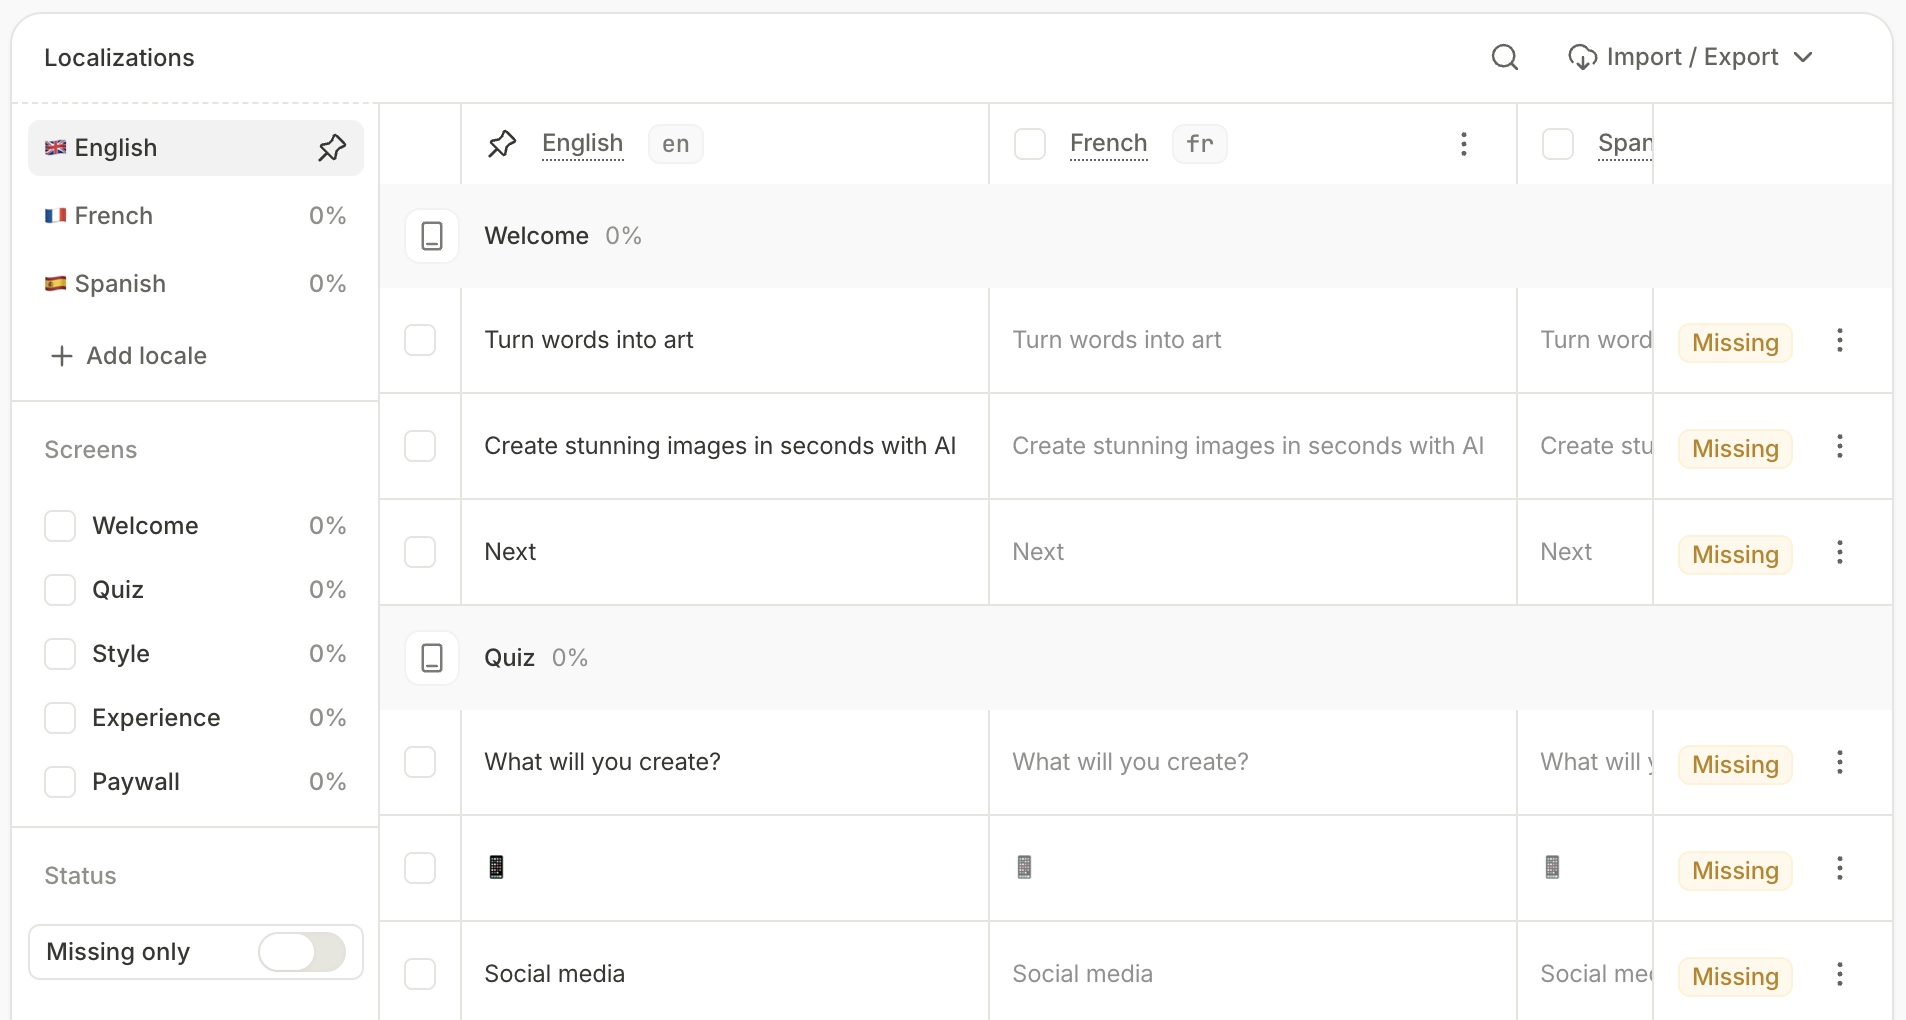
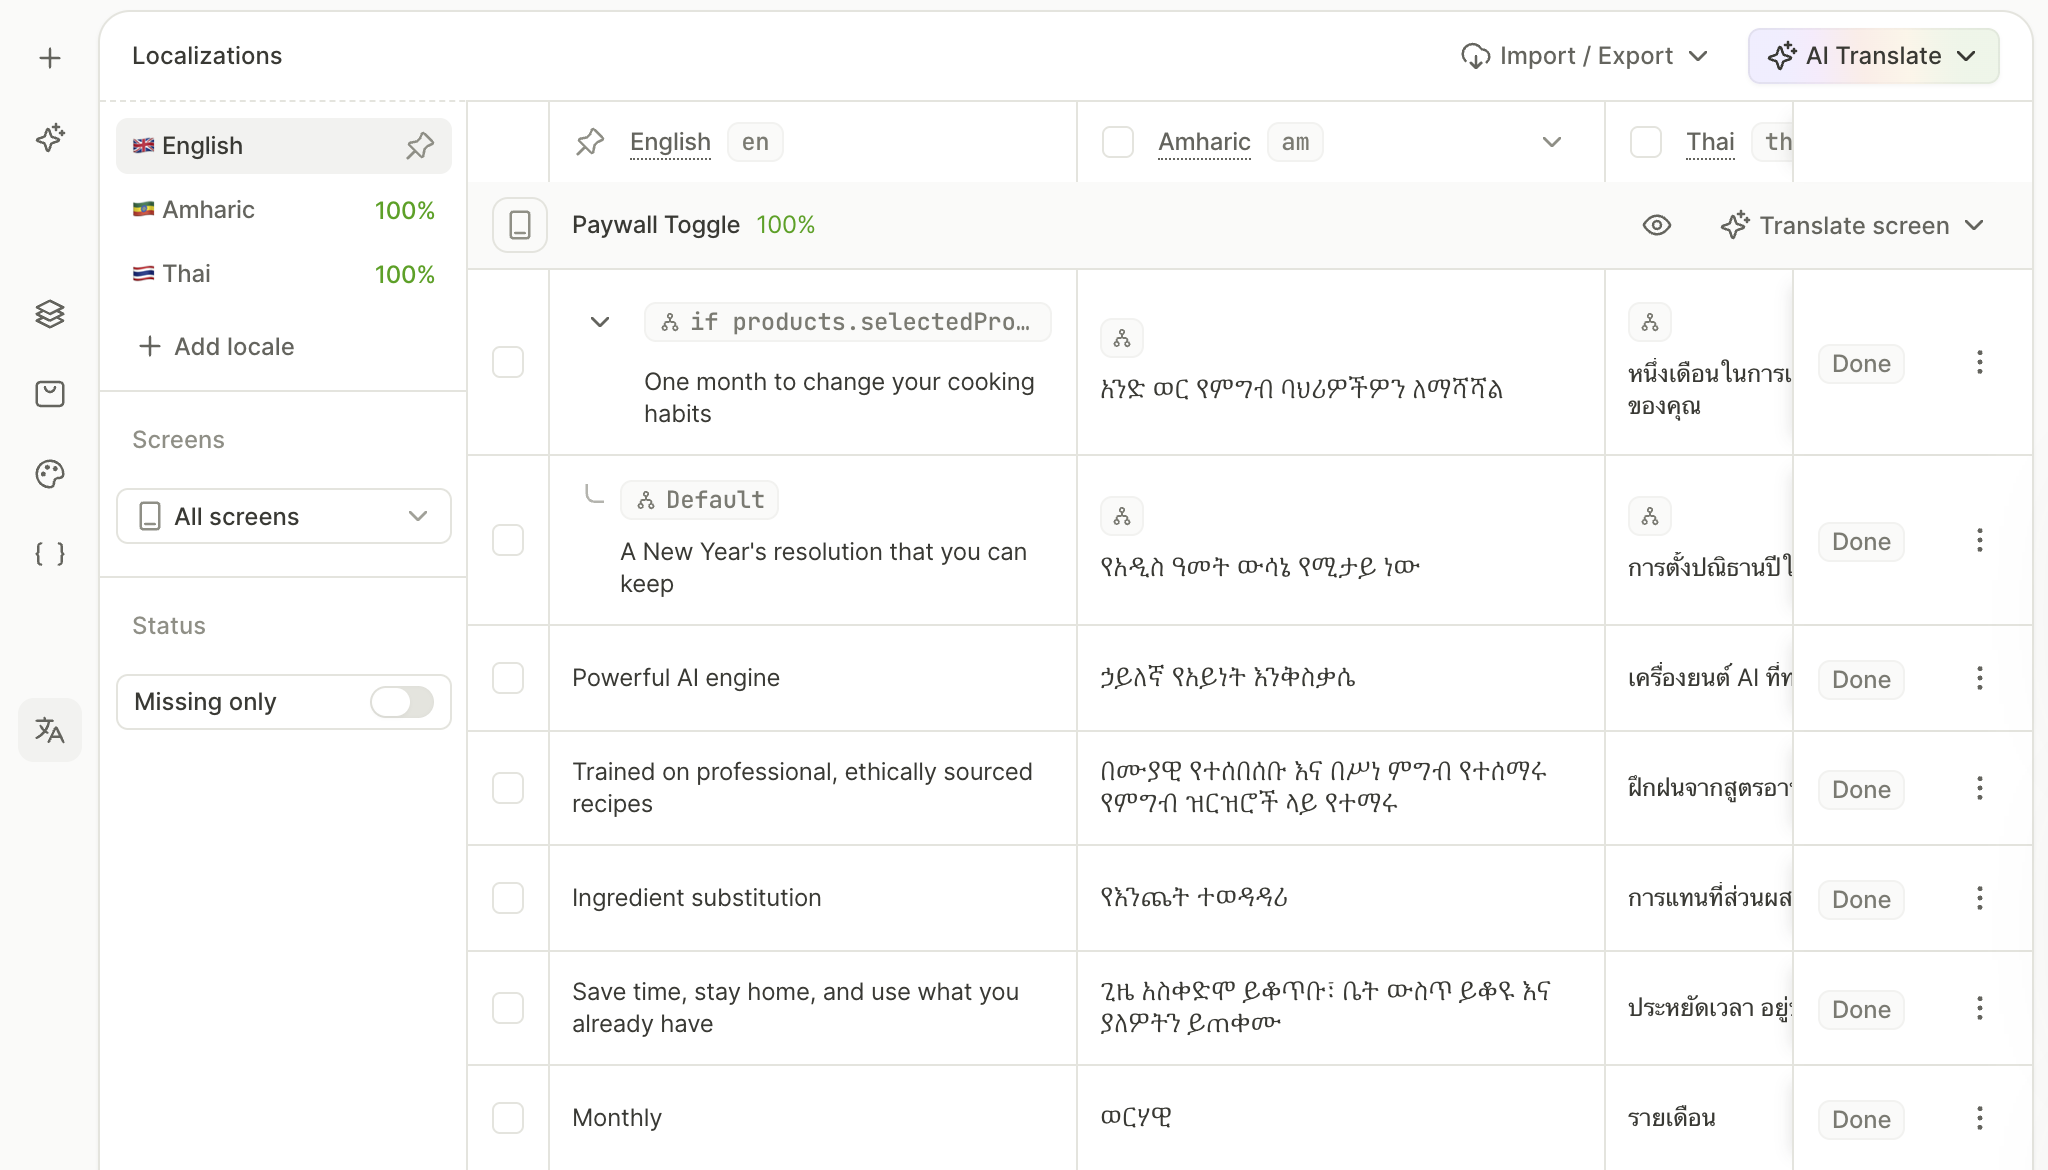
Localization 2.0

diff --git a/.claude/context-mill/zones/flow-design.md b/.claude/context-mill/zones/flow-design.md
@@ -221,7 +221,7 @@ articles in this zone are plausible and one is right.
 | "selected style only applied to one option", "grey out the submit button", "error style appears too late", "empty field counts as valid" | `builder-element-states` for the look, `builder-inputs-and-forms` for the rules. Four constraints do the work: state styling does **not** propagate to siblings (style one element, then duplicate it); **Disabled** never activates on its own — it needs a condition, typically `<elementId>.isValid = false`; **Invalid** activates only when the user submits, so nothing turns red while typing; and an empty input is always valid (Text inputs have no rules at all, so their `isValid` is always true). |
 | "swipeable slides", "let users switch monthly/yearly", "branch on which slide they picked" | A Carousel's active slide is **not** a selectable group — slides can't be referenced in conditions or dynamic text, so it's for visual rotation only (`builder-containers#carousel`). `builder-tabs` is the single-choice-group version, exposing `selectedOptionId` / `selectedOptionTitle`. Switching whole product groups is `flow-logic`'s `paywall-with-tabs` recipe. |
 | "countdown restarts every time the screen opens", "timer should survive an app restart" | `flow-timer` — the **Behavior** dropdown: **Every appear** (default), **First appear** (first view in the current app session), **First appear (persisted)** (keeps counting across launches). Hiding a badge or navigating when it reaches zero is an **On timer end** action (`flow-logic`'s `onboarding-actions`). |
-| "translate the flow", "send strings to a translator", "TSV import failed", "some screens fell back to English" | Two unrelated surfaces; `paywall-localization` exists only to route between them. On-screen text and media: `add-paywall-locale-in-adapty-paywall-builder` — despite the filename it is the flow-era Localizations panel (see the Boundaries TODO on its zoning). Export/import is `.tsv`, **the export strips variables** so they must be re-added by hand, import locale codes must already exist in the flow, and the pinned default locale is the fallback for anything missing. Per-locale remote-config JSON is `add-flow-remote-config-locale`. Icons, screen backgrounds and custom media IDs **can't** be localized at all (`custom-media#limitations`). |
+| "translate the flow", "send strings to a translator", "TSV import failed", "some screens fell back to English" | Two unrelated surfaces; `paywall-localization` exists only to route between them. On-screen text and media: `add-paywall-locale-in-adapty-paywall-builder` — despite the filename it is the flow-era Localizations panel (see the Boundaries TODO on its zoning). Export/import is `.tsv`; the pinned default locale is the fallback for anything missing. Corrected 2026-10-01 against the localization-catalog dev branch (`origin/ADP-7896-localization-catalog`, `packages/unified-builder/builder/docs/localization.docs.md:310-325`), pending release: variables export as `{{name}}` and survive the import, locale columns the flow lacks are skipped rather than rejected, and a blank cell clears a non-default translation. Earlier this row said the export strips variables and that import locale codes must already exist. Per-locale remote-config JSON is `add-flow-remote-config-locale`. Icons, screen backgrounds and custom media IDs **can't** be localized at all (`custom-media#limitations`). |
 | "can't upload the image/video", "upload fails", "file rejected", "my logo is an SVG", "the GIF doesn't animate" | `custom-media` carries the hard limits, and they are the answer to most "upload doesn't work" tickets (`custom-media.mdx:20,32`, read 2026-08-13): images `.JPG`/`.PNG`/`.WEBP` up to 20 MB; videos `.MP4`/`.WEBM` up to 50 MB, no longer than 30 s, minimum 640×640 px. **SVG is not an accepted format** (it isn't in the list — export to PNG or WEBP), and animated GIFs and animated WEBPs are explicitly unsupported at any size, with a Video element as the documented way to add motion. Icons are never uploaded: the Icon element draws from the bundled Tabler Icons library. Note the reader-facing troubleshooting entry for this lives outside this zone, at `flow-logic`'s `flow-common-issues` — this zone stays the source of truth for the numbers. |
 | "the Position toggle disappeared", "Fill and Hug are missing from Width", "the Spacing section is gone", "Fixed is greyed out" | The element and its container both use the **Free** direction. That combination leaves one legal configuration — Absolute position with a fixed width and height — so the builder removes every control that could express another. Rule and remedy in `manage-paywall-ui-elements` (section: Position in a Free container); symptom-first entry in `flow-common-issues`. Verified against `layout-restrictions.ts` and `SpacingEditor.tsx`, ADP-7740, 2026-09-18. |
 | "pre-checked trial switch", "App Store rejected our paywall" | `builder-toggles` — a trial toggle that defaults to "on" can be flagged as a manipulative dark pattern under the App Store Review Guidelines; the documented advice is to default it to off and let users opt in. What flipping it then swaps is `flow-logic` (`onboarding-actions`, `paywall-product-block`). |

diff --git a/.claude/skills/editor/SKILL.md b/.claude/skills/editor/SKILL.md
@@ -462,6 +462,8 @@ If readers will hit the defect and need to recognize it, the symptom and workaro
 
 File the bug. The finding is valuable; it belongs in a ticket, not an article.
 
+**Don't mention pricing.** Plan tiers, prices, quotas, and which plan includes a feature are outside the docs' domain. Don't name plans, don't say a feature depends on the plan, and don't link to the pricing page.
+
 **Verification steps state the expectation, not the fact.** The reader is checking, not being told. ❌ "Your sandbox purchase **has** `environment: Sandbox`" → ✅ "The `environment` property of your purchase **should be** `Sandbox`."
 
 ## Output Format (Review Mode)
